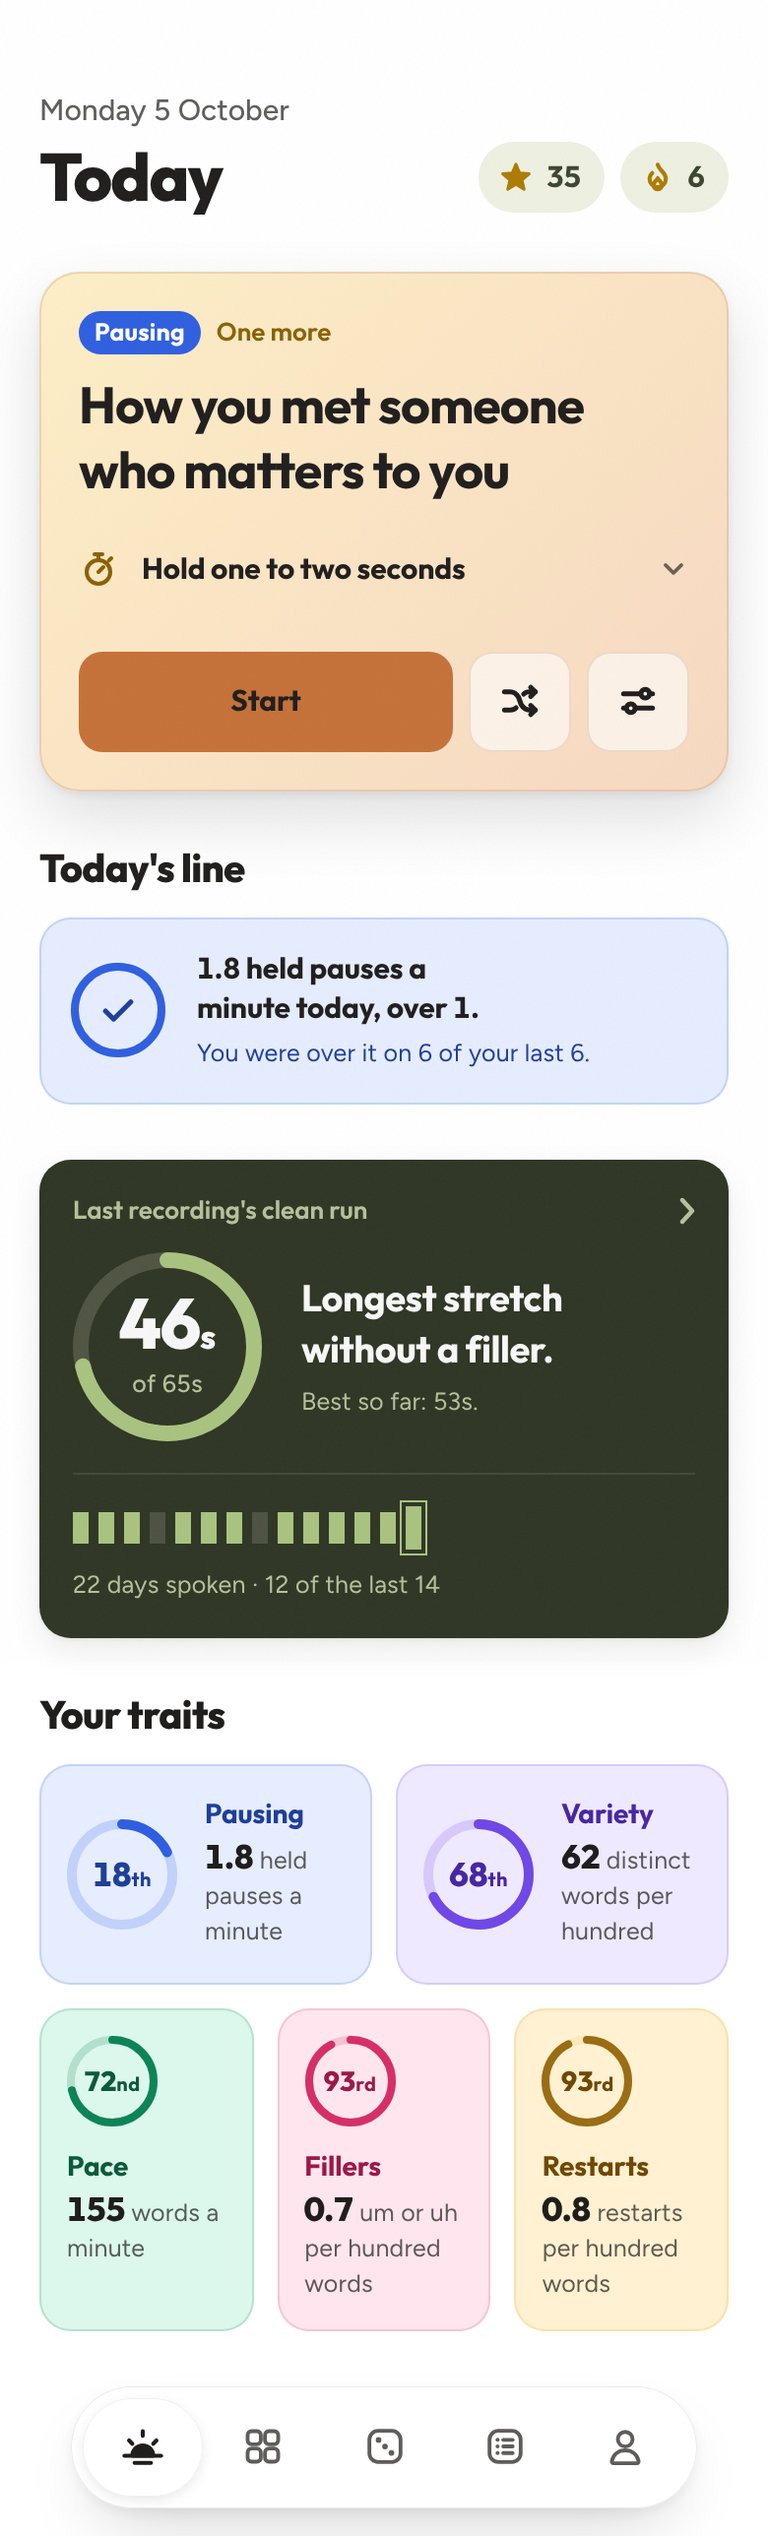
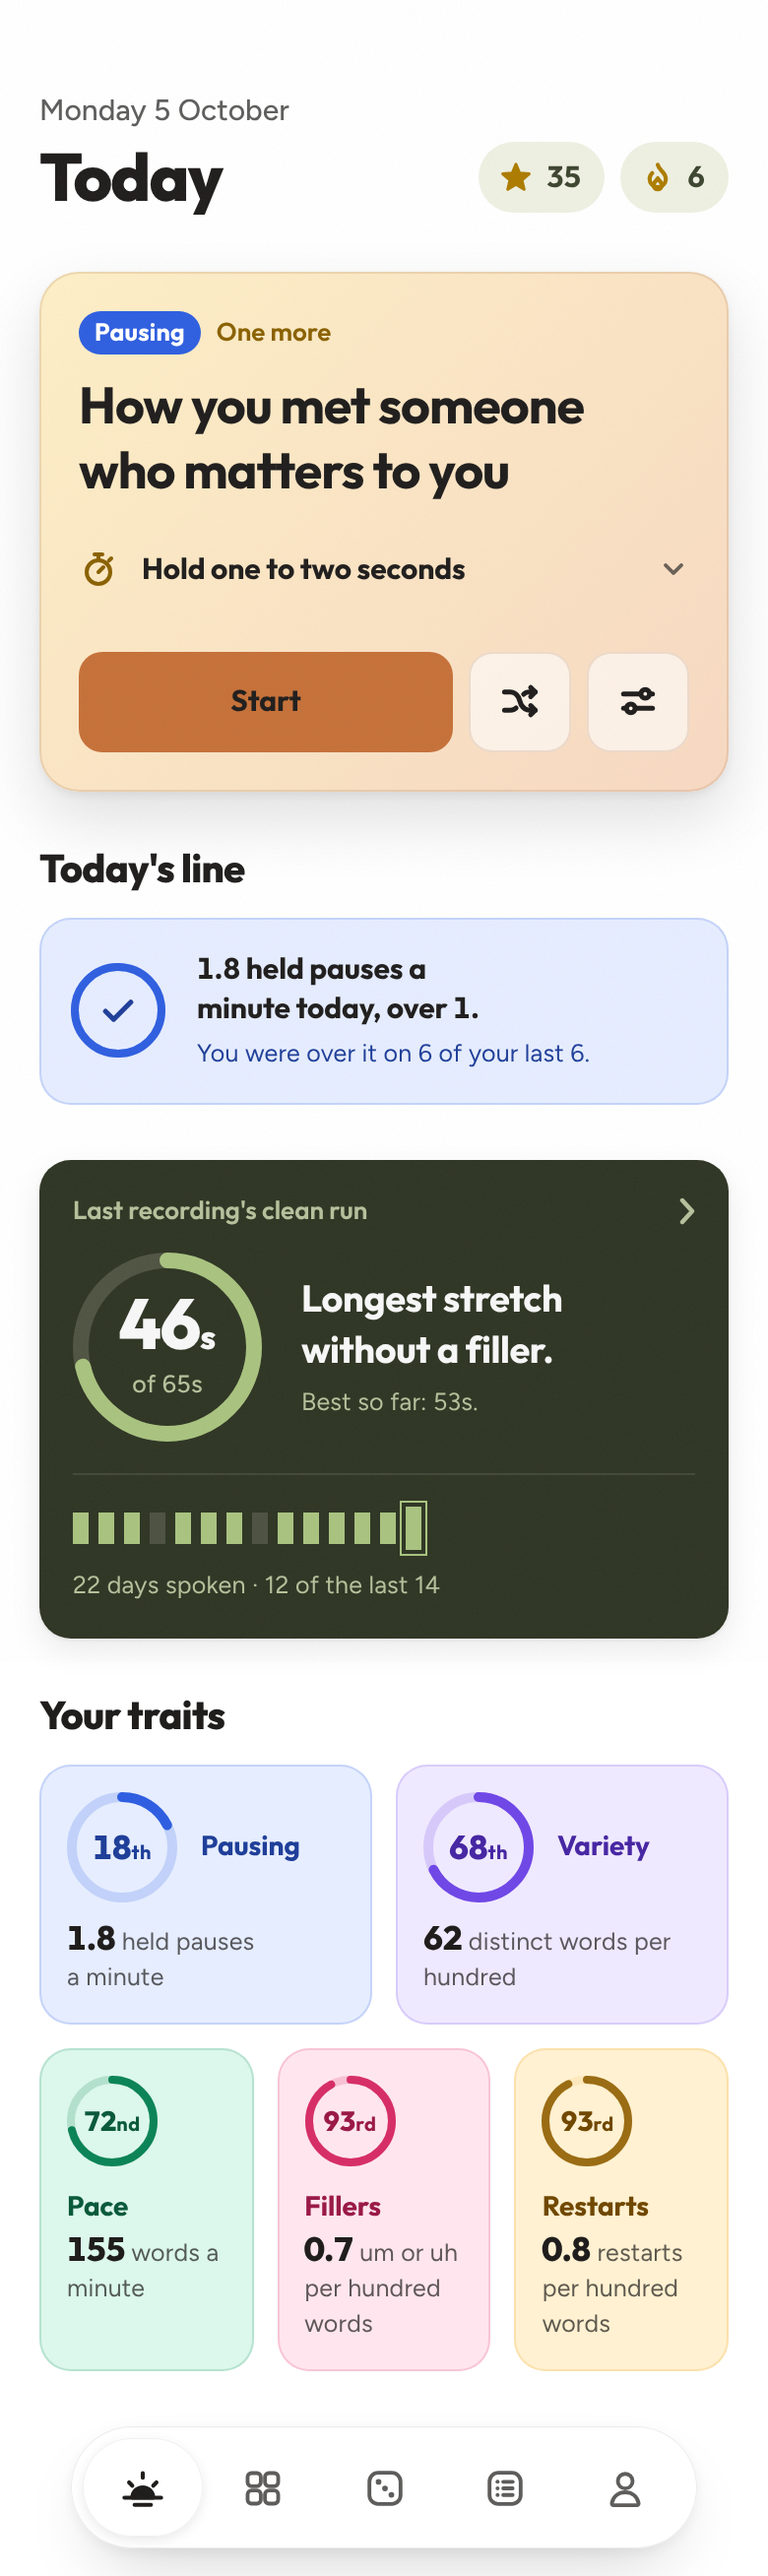
B1 follow-up: wide trait tiles put the name beside the ring, the measurement under both
The row layout gave the measurement a 71px column beside a 56px ring,
and "1.8 held pauses a minute" wrapped onto three lines. The name now
takes the space right of the ring (the empty 86x56 today-10 named) and
the measurement runs the tile's full width under them, two lines.

Claude-Session: https://claude.ai/code/session_01KQpi1wPL2sdqgKKvt94vrP

diff --git a/components/home/TraitStrip.tsx b/components/home/TraitStrip.tsx
@@ -39,25 +39,25 @@ function TraitTile({
   const unit = raw === "1" ? t.unitOne : t.unit;
   /*
    * Two shapes in one grid (#317's two wide over three narrow, kept).
-   * A wide tile is a row (today-10): the ring on the left and the name
-   * and the measurement beside it, where it used to stack like a narrow
-   * one and leave about 86x56px empty right of the ring. A narrow tile
-   * stays stacked, and so does a wide one under 360px, where the column
-   * beside the ring would be narrower than "Pausing". The measurement
-   * is set as a number (Outfit 800, tabular, ink) before its unit,
-   * which prints in full and wraps evenly (today-3: `line-clamp-2` cut
-   * Fillers to "per hundred...", so the number lost its denominator).
+   * A wide tile puts the name beside the ring (today-10: stacked, it
+   * left about 86x56px empty right of the ring) and gives the
+   * measurement the tile's full width under them. A first pass set the
+   * measurement beside the ring too, and its 71px column wrapped
+   * "1.8 held pauses a minute" onto three lines. A narrow tile stacks.
+   * The measurement is set as a number (Outfit 800, tabular, ink) before
+   * its unit, which prints in full and wraps evenly (today-3:
+   * `line-clamp-2` cut Fillers to "per hundred...", so the number lost
+   * its denominator).
    */
   return (
     <Link
       href={`/practice/${id}`}
       data-trait={id}
-      className={`press today-trait today-tile tone-wash flex rounded-card p-3.5 ${
-        wide
-          ? "col-span-3 flex-col min-[360px]:flex-row min-[360px]:items-center min-[360px]:gap-3.5"
-          : "col-span-2 flex-col"
+      className={`press today-trait today-tile tone-wash flex flex-col rounded-card p-3.5 ${
+        wide ? "col-span-3" : "col-span-2"
       }`}
     >
+      <div className={wide ? "flex items-center gap-3" : "contents"}>
       <Ring
         value={reading?.fraction ?? 0}
         size={wide ? 56 : 46}
@@ -81,15 +81,16 @@ function TraitTile({
           )}
         </span>
       </Ring>
-      <div className={`min-w-0 ${wide ? "mt-3 flex-1 min-[360px]:mt-0" : "mt-3"}`}>
-        <div className="font-display tone-ink text-row leading-tight">{t.name}</div>
-        {raw !== null && (
-          <div className="mt-1 text-caption text-pretty text-stone-500">
-            <span className="font-display text-num-s tabular-nums text-ink">{raw}</span>{" "}
-            {unit}
-          </div>
-        )}
+      <div className={`font-display tone-ink text-row min-w-0 leading-tight ${wide ? "" : "mt-3"}`}>
+        {t.name}
       </div>
+      </div>
+      {raw !== null && (
+        <div className={`text-caption text-pretty text-stone-500 ${wide ? "mt-2.5" : "mt-1"}`}>
+          <span className="font-display text-num-s tabular-nums text-ink">{raw}</span>{" "}
+          {unit}
+        </div>
+      )}
     </Link>
   );
 }
